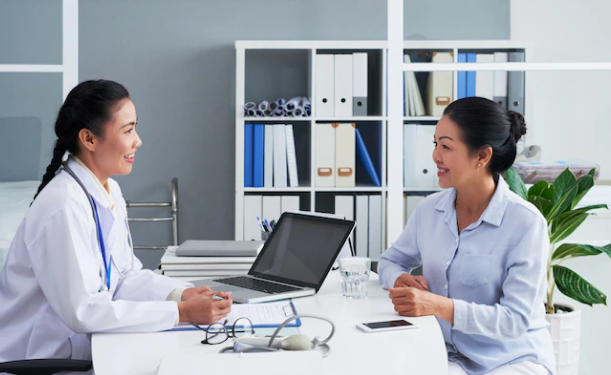
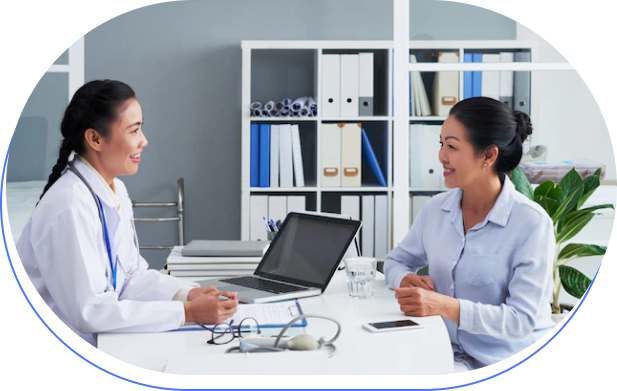
new changes

diff --git a/healthcare/index.html b/healthcare/index.html
@@ -40,10 +40,10 @@
 
     <main>
         <section>
-            <div class="container-fluid">
+            <div class="container">
                 <div class="row">
                     <div class="col">
-                        <div class="container-fluid align-center">
+                        <div class="container">
                             <div class="row">
                                 <h1>Medical Care Now</h1>
                             </div>
@@ -68,15 +68,15 @@
         </section>
 
         <section>
-            <div class="container-fluid">
+            <div class="container mt-5 mb-5">
                 <div class="container">
-                    <div class="row">
+                    <div class="row mt-5">
                         <p class="text-primary">Fast Solutions</p>
                     </div>
                     <div class="row">
-                        <h2 class="align-center">step by step to get your solutions</h2>
+                        <h2>step by step to get your solutions</h2>
                     </div>
-                    <div class="row">
+                    <div class="row mt-5">
                         <div class="col">
                             <div class="card" style="width: 15rem;">
                                 <div class="card-body border-top border-primary">
@@ -87,7 +87,7 @@
                             </div>
                         </div>
                         <div class="col">
-                            <div class="card border-top" style="width: 15rem;">
+                            <div class="card" style="width: 15rem;">
                                 <div class="card-body border-top border-primary">
                                     <img src="assets/images/section2/Profile.png" alt="">
                                   <h5 class="card-title">Choose doctor specialist</h5>
@@ -119,11 +119,11 @@
         </section>
 
         <section>
-            <div class="container-fluid">
-                <div class="container">
+            <div class="container mt-5 mb-5">
+                <div class="container d-flex justify-content-center">
                     <div class="row">
                         <div class="col">
-                            <div class="container-fluid">
+                            <div class="container">
                                 <div class="container">
                                     <div class="row">
                                         <p class="text-primary">Fast Solutions</p>
@@ -137,7 +137,7 @@
                                         </p>
                                     </div>
                                     <div class="row">
-                                        <div class="container-fluid">
+                                        <div class="container">
                                             <div class="row">
                                                 <div class="col">
                                                     <img src="assets/images/section3/ok.png" alt="">
@@ -167,41 +167,43 @@
         </section>
 
         <section>
-            <div class="container-fluid">
+            <div class="container mt-5 mb-5">
                 <div class="row">
                     <div class="col">
-                        <img src="assets/images/section4/peopletalking.png" alt="" class="border border-primary rounded">
+                        <img src="assets/images/image.png" alt="">
                     </div>
                     <div class="col">
-                        <div class="row">
-                            <p class="text-primary">Make a schedule</p>
-                        </div>
-                        <div class="row">
-                            <h2>Make a schedule in advance with the available doctor</h2>
-                        </div>
-                        <div class="row">
-                            <p class="lead">
-                                Healthcare is a very painful process, especially if you're not taking care of your health and having regular check-ups. HealthyCarely makes it easier for everyone to schedule a doctor's appointment.
-                            </p>
-                        </div>
-                        <div class="row">
-                            <div class="container-fluid">
-                                <div class="row">
-                                    <div class="col">
-                                        <img src="assets/images/section3/ok.png" alt="">
-                                        <p><strong>Make a schedule online is easy</strong></p>
+                        <div class="container">
+                            <div class="row">
+                                <p class="text-primary">Make a schedule</p>
+                            </div>
+                            <div class="row">
+                                <h2>Make a schedule in advance with the available doctor</h2>
+                            </div>
+                            <div class="row">
+                                <p class="lead">
+                                    Healthcare is a very painful process, especially if you're not taking care of your health and having regular check-ups. HealthyCarely makes it easier for everyone to schedule a doctor's appointment.
+                                </p>
+                            </div>
+                            <div class="row">
+                                <div class="container">
+                                    <div class="row d-flex">
+                                        <div class="col">
+                                            <img src="assets/images/section3/ok.png" alt="">
+                                            <p><strong>Make a schedule online is easy</strong></p>
+                                        </div>
                                     </div>
-                                </div>
-                                <div class="row">
-                                    <div class="col">
-                                        <img src="assets/images/section3/ok.png" alt="">
-                                        <p><strong>Easy to connect with doctor</strong></p>
+                                    <div class="row">
+                                        <div class="col">
+                                            <img src="assets/images/section3/ok.png" alt="">
+                                            <p><strong>Easy to connect with doctor</strong></p>
+                                        </div>
                                     </div>
                                 </div>
                             </div>
-                        </div>
-                        <div class="row">
-                            <button type="button" class="btn btn-primary btn-lg">Make Schedule Now!</button>
+                            <div class="row">
+                                <button type="button" class="btn btn-primary btn-lg">Make Schedule Now!</button>
+                            </div>
                         </div>
                     </div>
                 </div>
@@ -209,46 +211,63 @@
         </section>
 
         <section>
-            <div class="container-fluid">
-                <div class="container">
-                    <div class="row">
-                        <p class="text-primary">Our rating</p>
-                    </div>
-                    <div class="row">
-                        <h2 class="align-center">We're employee benefit at 7500+ hospital</h2>
-                    </div>
-                    <div class="row">
-                        <div class="col">
-                            <div class="card border-top" style="width: 20rem;">
-                                <div class="card-body border-top border-primary">
-                                    <h1>900+</h1>
-                                    <h6 class="card-title lead">Verified Specialist</h6>
-                                    <p class="card-text">Highly Verified</p>
-                                </div>
-                              </div>
-                        </div>
-                        <div class="col">
-                            <div class="card" style="width: 20rem;">
-                                <div class="card-body border-top border-primary">
-                                    <h1>45000+</h1>
-                                    <h6 class="card-title lead">Happy costumers</h6>
-                                    <p class="card-text">Highly Performance</p>
-                                </div>
+            <div class="container text-center">
+                <div class="row">
+                    <p class="text-primary">Our rating</p>
+                </div>
+                <div class="row">
+                    <h2>We're employee benefit at 7500+ hospital</h2>
+                </div>
+                <div class="row">
+                    <div class="col">
+                        <div class="card border-top" style="width: 20rem;">
+                            <div class="card-body border-top border-primary text-center">
+                                <h1>900+</h1>
+                                <h6 class="card-title lead">Verified Specialist</h6>
+                                <p class="card-text">Highly Verified</p>
                             </div>
                         </div>
-                        <div class="col">
-                            <div class="card" style="width: 20rem;">
-                                <div class="card-body border-top border-primary">
-                                    <h1>99,7%</h1>
-                                    <h6 class="card-title lead">Positive Feedback</h6>
-                                    <p class="card-text">Costumers apporave</p>
-                                </div>
+                    </div>
+                    <div class="col">
+                        <div class="card" style="width: 20rem;">
+                            <div class="card-body border-top border-primary text-center">
+                                <h1>45000+</h1>
+                                <h6 class="card-title lead">Happy costumers</h6>
+                                <p class="card-text">Highly Performance</p>
+                            </div>
+                        </div>
+                    </div>
+                    <div class="col">
+                        <div class="card" style="width: 20rem;">
+                            <div class="card-body border-top border-primary text-center">
+                                <h1>99,7%</h1>
+                                <h6 class="card-title lead">Positive Feedback</h6>
+                                <p class="card-text">Costumers apporave</p>
                             </div>
                         </div>
                     </div>
                 </div>
             </div>
         </section>
+
+        <section class="container">
+            <div class="row col">
+                <h1 class="text-center">Our patients feedback about us</h1>
+            </div>
+            <div class="row">
+                <p class="lead">their impression after using this application</p>
+            </div>
+            <div class="row">
+                <div class="container">
+                    <div class="row">
+                        <div class="">
+
+                        </div>
+                    </div>
+                </div>
+            </div>
+        </section>
+
     </main>
 
 
